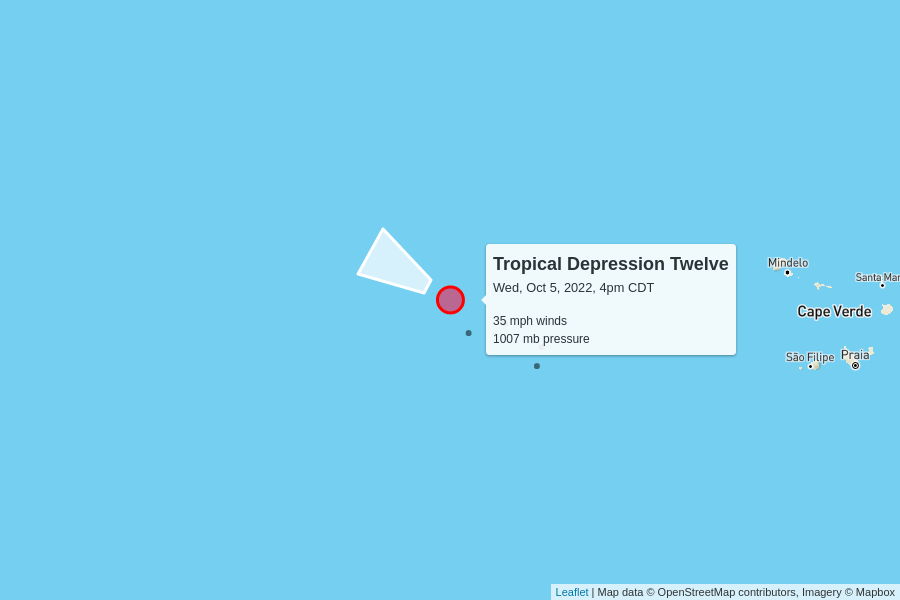
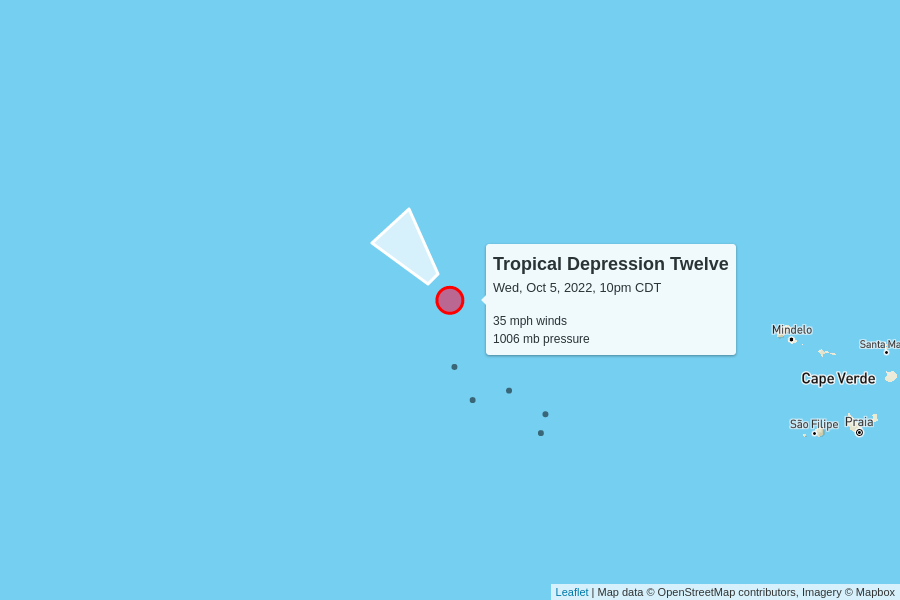
automatic update

diff --git a/docs/index.html b/docs/index.html
@@ -100,7 +100,7 @@
         <td colspan="6" class="storm category-0" >
           <h2>
             Tropical Depression Twelve
-            <p class="updated">last updated <span data-time>2022-10-05T21:00:00.000Z</span></p>
+            <p class="updated">last updated <span data-time>2022-10-06T03:00:00.000Z</span></p>
           </h2>
         </td>
       </tr>
@@ -116,11 +116,11 @@
       <tr>
         <td class="spacer"></td>
         <td>35 mph</td>
-        <td>1007 mb</td>
+        <td>1006 mb</td>
         <td>
-          10 mph to the west-northwest
+          13 mph to the northwest
           <br/>
-          <span style="display: inline-block; font-size: 1.5em; transform: rotate(300deg);">↑</span>
+          <span style="display: inline-block; font-size: 1.5em; transform: rotate(320deg);">↑</span>
         </td>
         <td><a href="https://raw.githubusercontent.com/mgwalker/atlantic-hurricanes/main/data/csv/AL122022.csv">AL122022.csv</a></td>
         <td><a href="https://www.nhc.noaa.gov/archive/2022/TWELVE.shtml?">NHC advisories</a></td>
